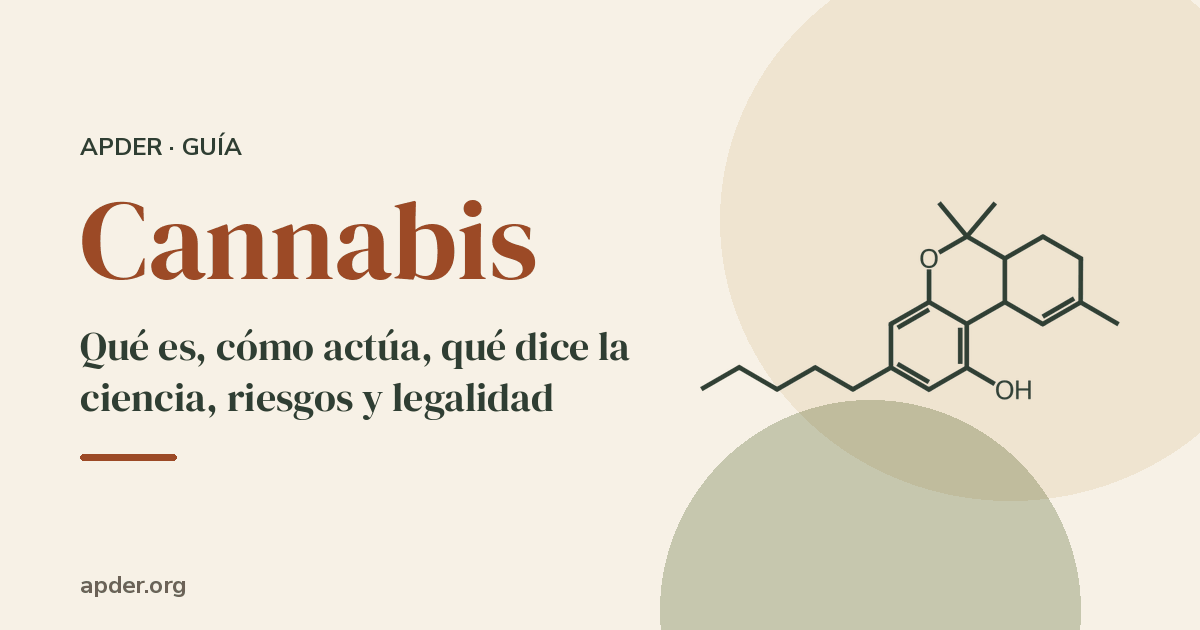
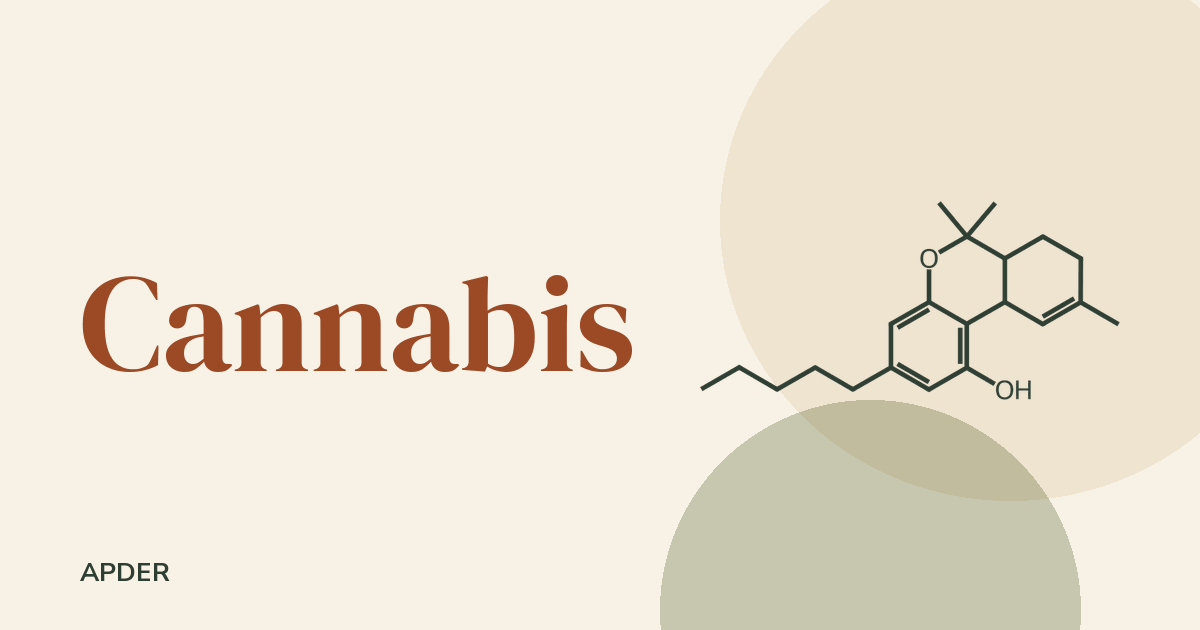
Tarjetas para compartir más sencillas: solo título, dibujo y marca
Fuera antetítulo, subtítulo y dirección web. Títulos cortos (p. ej.
«Psilocibina», «Medicinas»). La tarjeta general og-apder.png se rehace con
el mismo estilo. Guía para participantes regenerada con la cabecera de main
(sin «legalidad», según la regla del PR #5).

Claude-Session: https://claude.ai/code/session_01VvRacb4CnJc7TsxEa9mZuP

diff --git a/docs/guia-sesion/index.html b/docs/guia-sesion/index.html
@@ -65,7 +65,7 @@
             <li><a href="../sustancias/cacao/">Cacao</a></li>
             <li><a href="../sustancias/tabaco/">Tabaco</a></li>
           </ul></div>
-          <div class="mega-col mega-dest"><a class="mega-card" href="../sustancias/"><img src="../sustancias/moleculas/psilocibina.svg" alt="" width="130" height="100" loading="lazy" decoding="async"><strong>Todas las guías</strong><span>Qué son, cómo actúan, investigación, riesgos y legalidad.</span></a><a class="mega-extra" href="../medicinas/">Medicinas por categorías →</a><a class="mega-extra" href="../terapia-asistida-mdma/">Terapia asistida con MDMA →</a></div>
+          <div class="mega-col mega-dest"><a class="mega-card" href="../sustancias/"><img src="../sustancias/moleculas/psilocibina.svg" alt="" width="130" height="100" loading="lazy" decoding="async"><strong>Todas las guías</strong><span>Qué son, cómo actúan, qué dice la investigación y sus riesgos.</span></a><a class="mega-extra" href="../medicinas/">Medicinas por categorías →</a><a class="mega-extra" href="../terapia-asistida-mdma/">Terapia asistida con MDMA →</a></div>
         </div></div>
       </div>
       <a href="../investigacion-terapeutica/">Investigación</a>

diff --git a/scripts/tarjetas_og.py b/scripts/tarjetas_og.py
@@ -1,6 +1,6 @@
 """Genera las imágenes para compartir (Open Graph) de apder.org: una tarjeta
-de 1200×630 por página, con la paleta Tierra, las letras de la web y el dibujo
-de la molécula o el logo. Pesan menos de 100 KB, por debajo del límite de
+de 1200×630 por página, sencilla: el título, el dibujo de la molécula o el
+logo y la marca APDER, con la paleta Tierra y las letras de la web. Pesan menos de 100 KB, por debajo del límite de
 WhatsApp (300 KB).
 
 Uso:  python3 scripts/tarjetas_og.py          (desde la raíz del repositorio)
@@ -27,29 +27,27 @@ CREMA, ARENA, SALVIA = "#f7f1e6", "#efe4d0", "#cdd3c1"
 TIERRA, BOSQUE, SUAVE = "#9c4a26", "#2f3e33", "#6c6257"
 W, H = 1200, 630
 
-GUIA = "Qué es, cómo actúa, qué dice la ciencia, riesgos y legalidad"
-
-# nombre de archivo, antetítulo, título, subtítulo, dibujo
+# nombre de archivo, título, dibujo
 TARJETAS = [
-    ("medicinas-guias", "APDER · Guías", "Medicinas psicodélicas", "19 guías en español, con fuentes y reducción de riesgos", "logo"),
-    ("medicinas-familias", "APDER · Artículo", "Las medicinas, por familias", "Triptaminas, fenetilaminas, empatógenos, plantas y más", "mol:ayahuasca"),
-    ("terapia-mdma", "APDER · MDMA", "Terapia asistida con MDMA", "Qué es, cómo se vive, qué dice la investigación y dónde es legal", "mol:mdma"),
-    ("investigacion", "APDER · Investigación", "Investigación terapéutica", "Qué se sabe, qué falta por saber y cómo participar en ensayos", "mol:5-meo-dmt"),
-    ("biblioteca", "APDER · Recursos", "Biblioteca", "425 libros sobre psicodélicos y enteógenos, con buscador", "logo"),
-    ("guia-sesion", "Guía para participantes", "Guía para tu sesión", "Antes, durante y después: cómo prepararte e integrar lo vivido", "svg:corazon"),
-    ("protocolo-taller", "Guía para participantes", "Meditación de corazón", "Preparación, acompañamiento, música e integración", "svg:corazon"),
+    ("../og-apder", "APDER", "logo"),
+    ("medicinas-guias", "Medicinas", "logo"),
+    ("medicinas-familias", "Medicinas por familias", "mol:ayahuasca"),
+    ("terapia-mdma", "Terapia con MDMA", "mol:mdma"),
+    ("investigacion", "Investigación", "mol:5-meo-dmt"),
+    ("biblioteca", "Biblioteca", "logo"),
+    ("guia-sesion", "Guía para tu sesión", "svg:corazon"),
+    ("protocolo-taller", "Meditación de corazón", "svg:corazon"),
 ]
 GUIAS = {
-    "psilocibina": "Setas de psilocibina", "lsd": "LSD", "mescalina": "Mescalina, peyote y San Pedro",
-    "dmt": "DMT", "ayahuasca": "Ayahuasca", "5-meo-dmt": "5-MeO-DMT", "mdma": "MDMA",
-    "ketamina": "Ketamina", "ibogaina": "Ibogaína", "2c-b": "2C-B", "4-aco-dmt": "4-AcO-DMT",
-    "amanita-muscaria": "Amanita muscaria", "salvia-divinorum": "Salvia divinorum",
-    "cannabis": "Cannabis", "kanna": "Kanna", "kratom": "Kratom", "datura": "Datura",
-    "cacao": "Cacao ceremonial", "tabaco": "Tabaco sagrado",
+    "psilocibina": "Psilocibina", "lsd": "LSD", "mescalina": "Mescalina", "dmt": "DMT",
+    "ayahuasca": "Ayahuasca", "5-meo-dmt": "5-MeO-DMT", "mdma": "MDMA", "ketamina": "Ketamina",
+    "ibogaina": "Ibogaína", "2c-b": "2C-B", "4-aco-dmt": "4-AcO-DMT", "amanita-muscaria": "Amanita",
+    "salvia-divinorum": "Salvia", "cannabis": "Cannabis", "kanna": "Kanna", "kratom": "Kratom",
+    "datura": "Datura", "cacao": "Cacao", "tabaco": "Tabaco",
 }
 MOLECULA = {"amanita-muscaria": "amanita", "salvia-divinorum": "salvia"}
 for slug, nombre in GUIAS.items():
-    TARJETAS.append((f"guia-{slug}", "APDER · Guía", nombre, GUIA, "mol:" + MOLECULA.get(slug, slug)))
+    TARJETAS.append((f"guia-{slug}", nombre, "mol:" + MOLECULA.get(slug, slug)))
 
 
 def fuente(nombre, tam):
@@ -72,7 +70,9 @@ def partir(draw, texto, f, ancho, max_lineas):
             lineas.append(actual)
             actual = p
     lineas.append(actual)
-    return lineas if len(lineas) <= max_lineas else None
+    if len(lineas) > max_lineas or any(draw.textlength(l, font=f) > ancho for l in lineas):
+        return None
+    return lineas
 
 
 def dibujo(tipo, caja):
@@ -101,7 +101,8 @@ def dibujo(tipo, caja):
     return im
 
 
-def tarjeta(nombre, ante, titulo, sub, tipo):
+def tarjeta(nombre, titulo, tipo):
+    """Tarjeta sencilla: solo el título y el dibujo (y la marca APDER abajo)."""
     base = Image.new("RGB", (W, H), CREMA)
     d = ImageDraw.Draw(base)
     d.ellipse((720, -60, 1300, 500), fill=ARENA)
@@ -115,37 +116,23 @@ def tarjeta(nombre, ante, titulo, sub, tipo):
     base.paste(im, (cx - im.width // 2, cy - im.height // 2), im)
 
     x, ancho = 80, 560
-    f_ante = fuente("nunito-sans-latin-700-normal", 24)
-    # elige tamaños para que el bloque quepa entre el margen de arriba y «apder.org»
-    for tam, tam_s in ((112, 40), (100, 40), (92, 38), (84, 36), (76, 34), (68, 32)):
+    for tam in (150, 136, 124, 112, 100, 90, 80):
         f_tit = fuente("dm-serif-display-latin-400-normal", tam)
-        f_sub = fuente("dm-serif-display-latin-400-normal", tam_s)
         lineas = partir(d, titulo, f_tit, ancho, 2)
-        ls = partir(d, sub, f_sub, ancho - 10, 3)
-        if not lineas or not ls:
-            continue
-        alto = 24 + 30 + len(lineas) * int(tam * 1.04) + 26 + len(ls) * int(tam_s * 1.28) + 26 + 6
-        if alto <= 440:
+        if lineas:
             break
-    y = max(64, (H - 40 - alto) // 2)
-    d.text((x, y), ante.upper(), font=f_ante, fill=BOSQUE)
-    y += 24 + 30 - int(tam * 0.2)
+    paso = int(tam * 1.02)
+    alto = paso * len(lineas)
+    y = (H - alto) // 2 - int(tam * 0.12)
     for l in lineas:
         d.text((x, y), l, font=f_tit, fill=TIERRA)
-        y += int(tam * 1.04)
-    y += 26 + int(tam * 0.2) - int(tam_s * 0.2)
-    for l in ls:
-        d.text((x, y), l, font=f_sub, fill=BOSQUE)
-        y += int(tam_s * 1.28)
-    y += 26 + int(tam_s * 0.2)
-    d.rounded_rectangle((x, y, x + 96, y + 6), radius=3, fill=TIERRA)
-    f_web = fuente("nunito-sans-latin-700-normal", 24)
-    d.text((x, H - 62), "apder.org", font=f_web, fill=SUAVE)
-    if y > H - 80:
-        print(f"  aviso: el texto de {nombre} llega muy abajo ({y}px)")
+        y += paso
+    if titulo != "APDER":
+        f_marca = fuente("nunito-sans-latin-700-normal", 26)
+        d.text((x, H - 76), "APDER", font=f_marca, fill=BOSQUE)
 
     os.makedirs(SALIDA, exist_ok=True)
-    ruta = os.path.join(SALIDA, nombre + ".png")
+    ruta = os.path.normpath(os.path.join(SALIDA, nombre + ".png"))
     base.quantize(colors=64, method=Image.Quantize.MEDIANCUT, dither=Image.Dither.NONE).save(ruta, optimize=True)
     return ruta, os.path.getsize(ruta)
 

diff --git a/LEEME.md b/LEEME.md
@@ -47,9 +47,9 @@ Decisión de Mannu (21-11-2026), para toda la web:
 
 ## Imágenes para compartir (WhatsApp y redes)
 
-- Cada página tiene su tarjeta de 1200×630 en `docs/img/og/` (guías con su molécula; Medicinas, Biblioteca, etc.). La portada, las páginas legales y la 404 usan `docs/img/og-apder.png`.
+- Cada página tiene su tarjeta de 1200×630 en `docs/img/og/`, a propósito sencilla: solo el título, el dibujo (la molécula en las guías) y la marca APDER. La portada, las páginas legales y la 404 usan `docs/img/og-apder.png`, hecha con el mismo guion.
 - Se generan con `python3 scripts/tarjetas_og.py` (necesita `pip install pillow cairosvg fonttools brotli`). Para una página nueva: añade su línea en `TARJETAS`, genera y pon en su `<head>` `og:image` y `twitter:image` con la dirección absoluta `https://apder.org/img/og/<nombre>.png`.
-- WhatsApp no enseña la imagen si pesa más de 300 KB: las tarjetas pesan entre 18 y 45 KB. WhatsApp guarda la vista previa de cada enlace; si un enlace ya se había enviado antes del cambio, puede tardar en verse la nueva.
+- WhatsApp no enseña la imagen si pesa más de 300 KB: las tarjetas pesan entre 10 y 35 KB. WhatsApp guarda la vista previa de cada enlace; si un enlace ya se había enviado antes del cambio, puede tardar en verse la nueva.
 
 ## Guía para participantes
 

diff --git a/CREDITOS.md b/CREDITOS.md
@@ -4,7 +4,7 @@ Qué consta en este repositorio sobre el origen y la licencia de cada imagen de 
 
 | Archivo | Qué es | Autoría / origen | Licencia | Estado |
 |---|---|---|---|---|
-| `docs/img/og-apder.png` | Imagen para compartir en redes (1200×630) | Propia: composición hecha para APDER con el logo `apder-icono.webp`, el texto «APDER» y el título de la web, con las letras DM Serif Display y Nunito Sans y la paleta Tierra | Propia de APDER (depende de la del logo) | Hecha en noviembre de 2026 |
+| `docs/img/og-apder.png` | Imagen para compartir en redes (1200×630) | Propia: composición hecha para APDER con el logo `apder-icono.webp` y el texto «APDER», con la letra DM Serif Display y la paleta Tierra (rehecha con `scripts/tarjetas_og.py`) | Propia de APDER (depende de la del logo) | Hecha en noviembre de 2026, simplificada el 21/11/2026 |
 | `docs/img/apder-icono.webp` | Logo de APDER (icono de seta y hojas), usado en la cabecera | Por confirmar (forma parte de la web original apder.org copiada el 26/10/2026) | Por confirmar | Por confirmar |
 | `docs/img/apder-1-transparent.webp` | Logo de APDER con fondo transparente, usado en el pie | Por confirmar (web original apder.org) | Por confirmar | Por confirmar |
 | `docs/img/favicon.png` | Icono de pestaña | Por confirmar | Por confirmar | Por confirmar |
